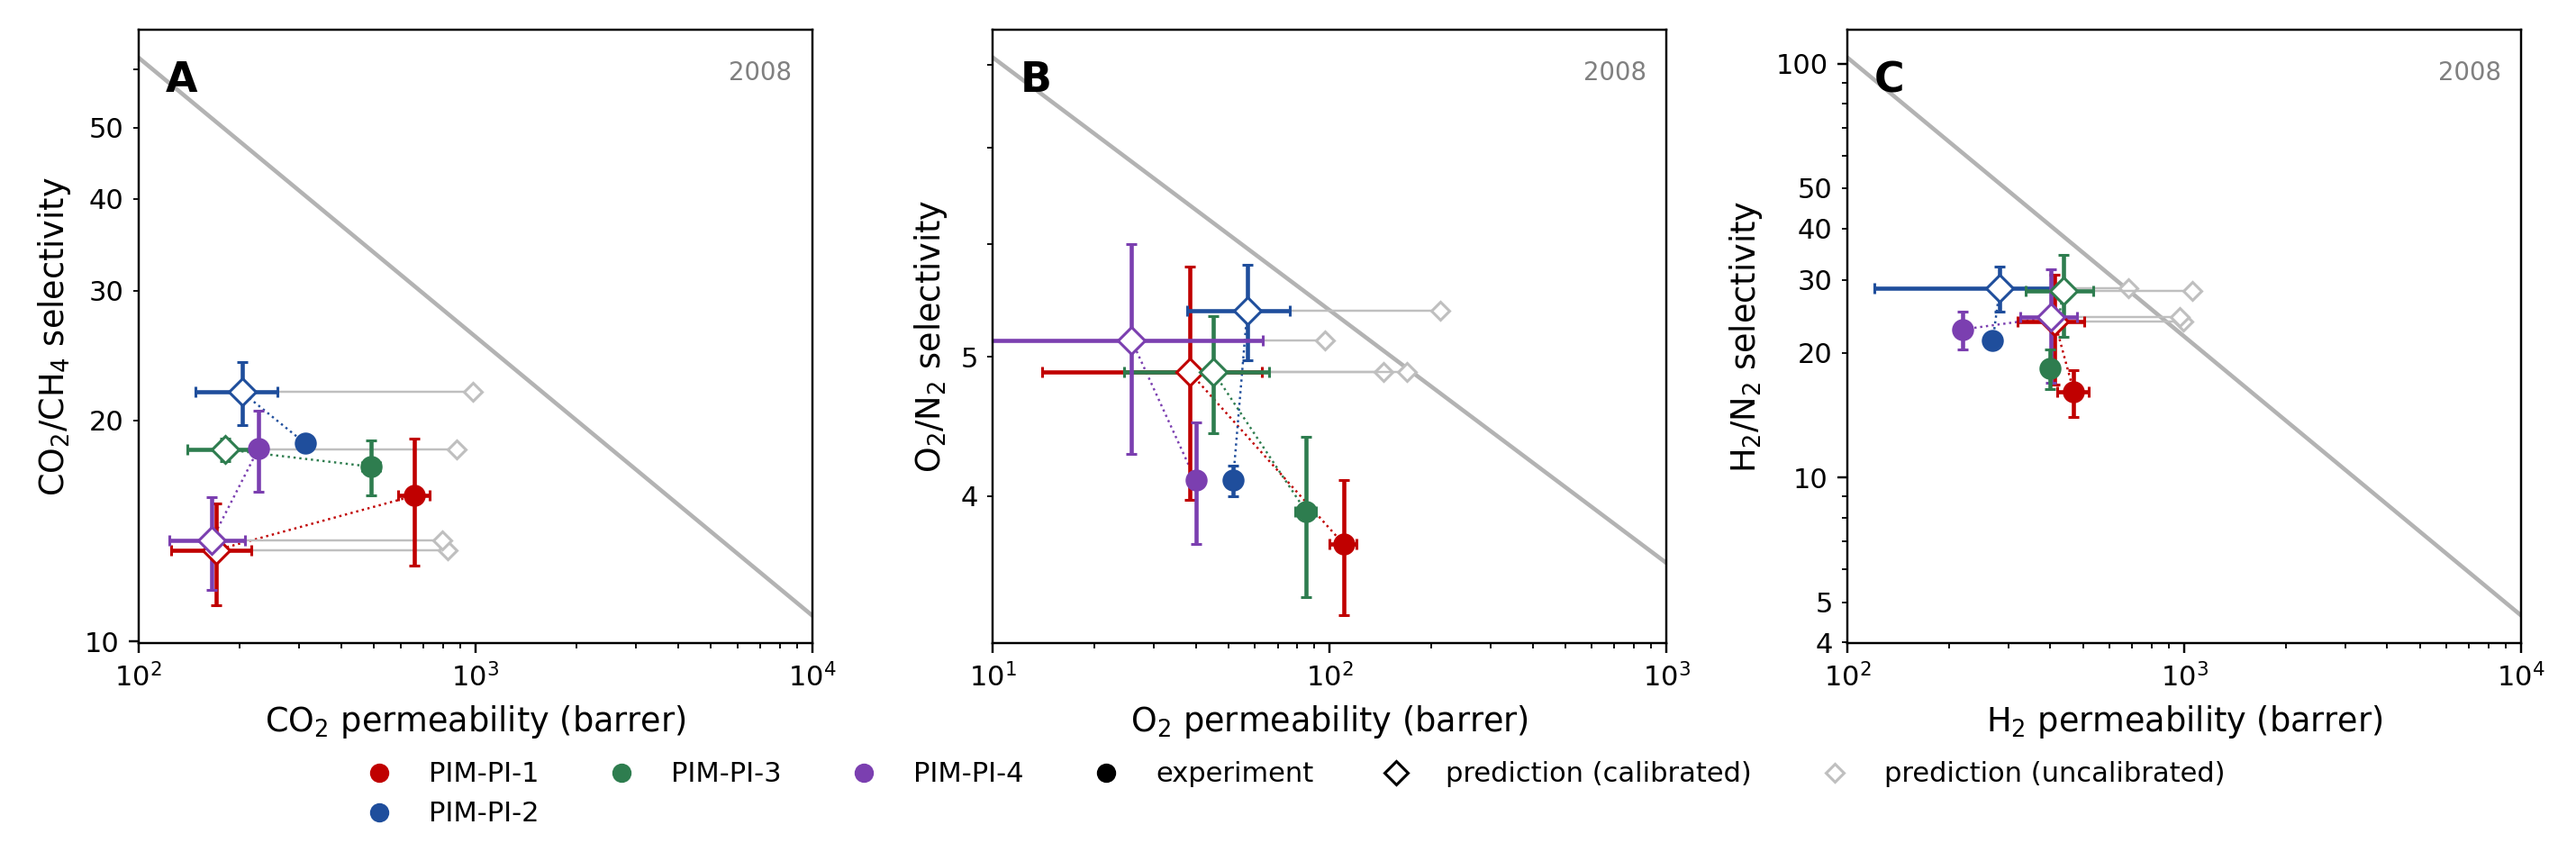
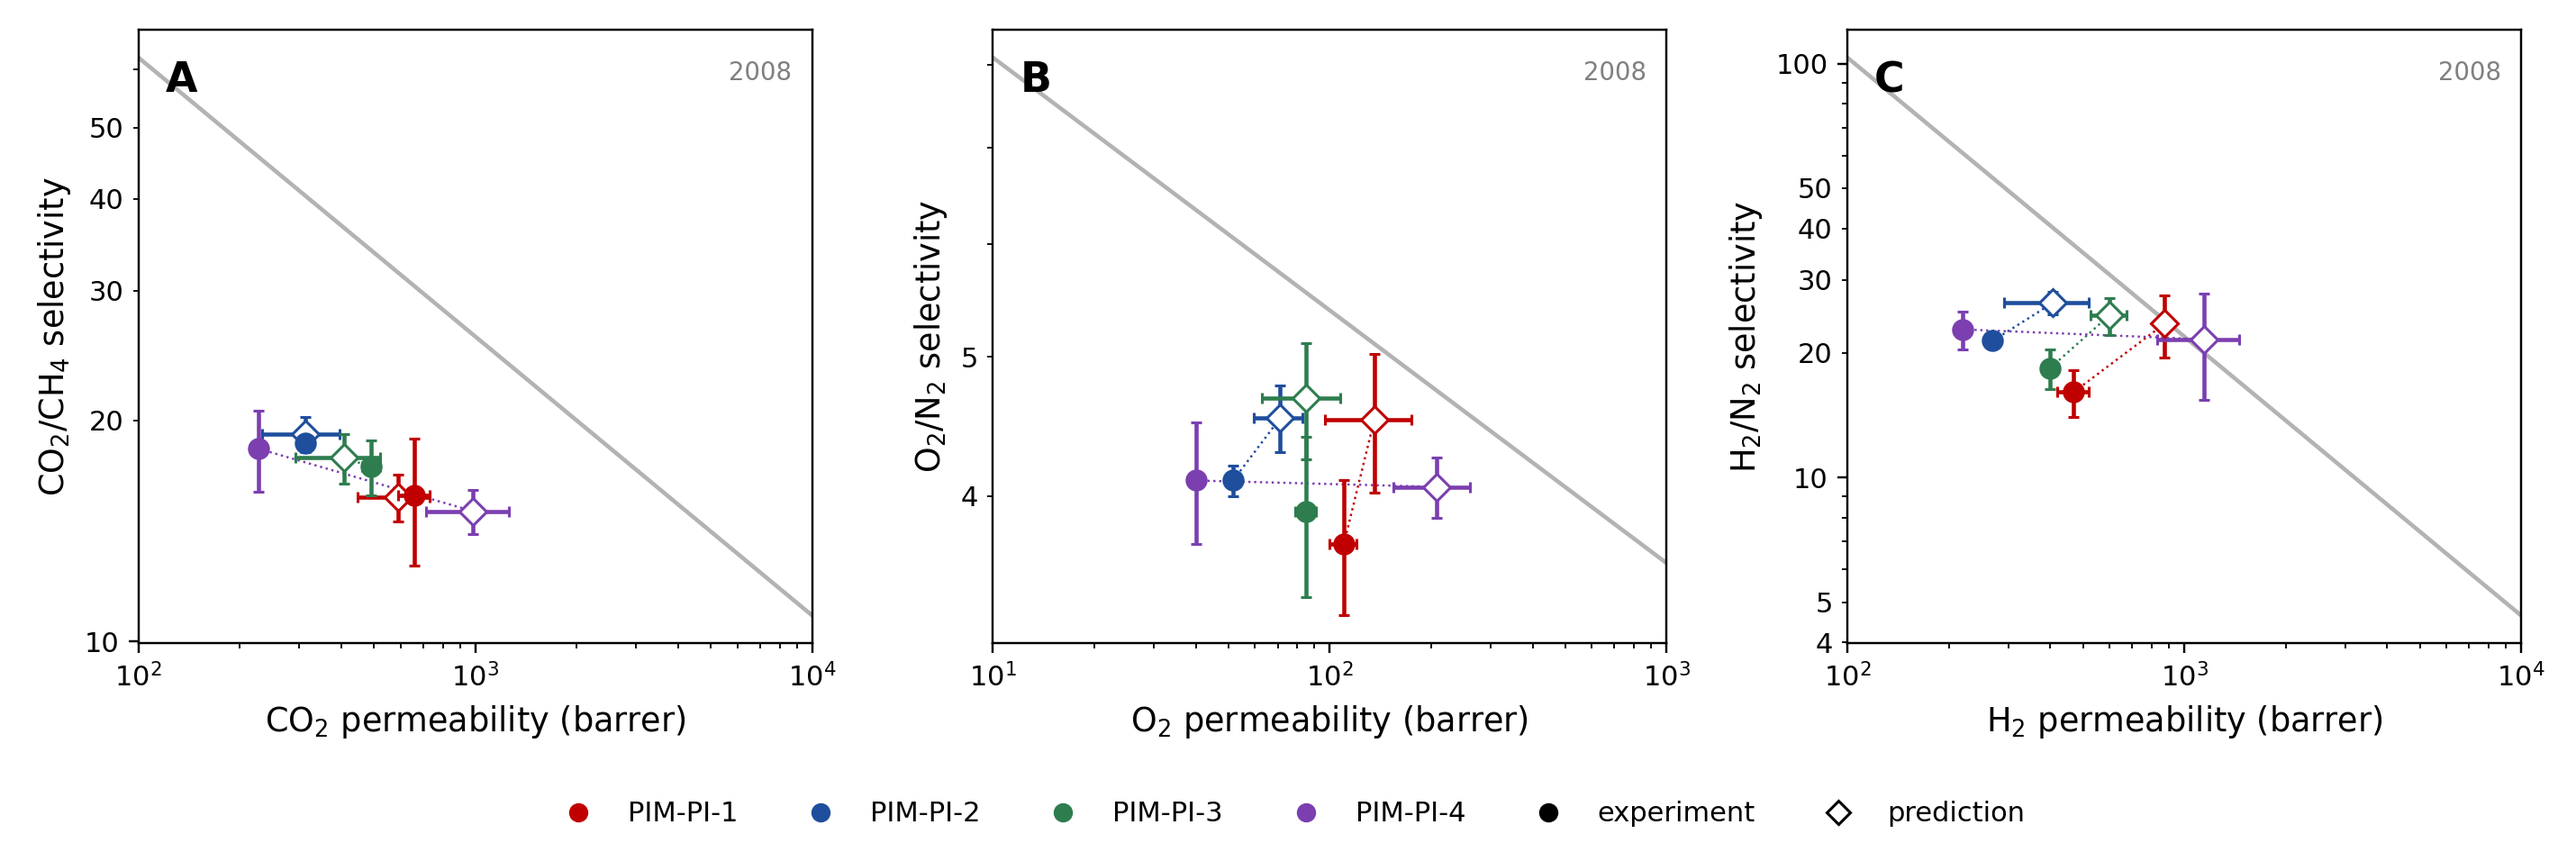
rebuild paper on conn predictions

diff --git a/results_v2/apply_main.py b/results_v2/apply_main.py
@@ -43,8 +43,9 @@ for tr, (mae, r2) in zip(rows[1:], N['table2']):
 log.append('Table 2: ' + json.dumps(N['table2']))
 set_col_widths(t2, [2196, 1330, 1330])                        # R2 column as wide as MAE so 'x ± y' fits
 edit('Table 2:', ' Prediction Metrics over Normalized Values, Averaged over 3 random seeds',
-     ' Test-set prediction metrics on normalized values (mean ± standard deviation over 3 train/test splits; '
-     'model epoch and configuration selected on a validation set)')
+     ' Test-set prediction metrics of the connection-aware predictor on normalized values (mean ± standard '
+     'deviation over 3 train/test splits; model epoch and configuration selected on a validation set). Table S12 '
+     'reports the same metrics for the published parameterization and for fifteen baselines')
 
 # ---- evaluation protocol paragraph
 P = 'Our predictive model was evaluated on held-out test sets'
@@ -190,12 +191,18 @@ edit(P, 'One notable outlier was that the model consistently overpredicted the H
      'permeabilities, and PIM-PI-4 was included in this study precisely as a control: it is the one repeat unit '
      'for which both a literature value and our own measurement exist, so the ratio between them gives a '
      f"per-gas correction ({_CAL['factor_text'].replace('x', 'X')}) that we apply to all four polymers. After this "
-     f"correction the predicted and measured permeabilities agree to within a factor of "
-     f"{_CAL['within_text_all']} across all four polymers and all three gases, and for H")
-edit(P, '2 permeability by a factor of approximately 2 – 3X, although the predicted selecivities for H',
-     f"2 the geometric mean of predicted to measured permeability is "
-     f"{_CAL['per_gas']['H2']['geomean_cal']:.2f}, with every polymer inside combined experimental error. The "
-     'predicted selectivities for H')
+     'correction the predicted and measured permeabilities of the three polymers that are new to this work agree '
+     f"to within a factor of {_CAL['within_text_novel']} across all three gases, with a geometric-mean ratio of "
+     f"{_CAL['cal']['geomean']:.2f} and {_CAL['cal']['within']} of the {_CAL['cal']['n']} values inside the "
+     'combined measurement and ensemble error, against none of them before the correction. For H')
+# the subscript 2 of "H2" is its own run, so this edit picks up after it
+edit(P, 'permeability by a factor of approximately 2 – 3X, although the predicted selecivities for H',
+     f"the ratio of predicted to measured permeability is {_CAL['per_gas']['H2']['geomean_cal']:.2f}, and for CO2 "
+     f"it is {_CAL['per_gas']['CO2']['geomean_cal']:.2f}. The previously reported polymer, which defines the correction "
+     'and whose own measured permeabilities are the lowest of the four, remains overpredicted by about a factor '
+     f"of {_CAL['within_text_all'].split('.')[0]}; its literature values and ours differ by more than for any "
+     'other polymer here, which is the same observation the correction is built on. The predicted selectivities '
+     'for H')
 edit(P, 'were still within error for all the polymers.',
      f"were within {N['h2n2_within_pct']}% of the measured values for all the polymers.")
 # The reviewers asked for the overprediction to be investigated rather than acknowledged, so the closing sentence is
@@ -354,8 +361,8 @@ for par in (p_mw, p_fw):                                   # the gas formulas ab
 
 # ---- Methods: property predictor (match what the selected models are)
 _PN = {'H2_N2': 'H\u2082/N\u2082', 'O2_N2': 'O\u2082/N\u2082', 'CO2_CH4': 'CO\u2082/CH\u2084'}
-_sel = [_PN[k] for k, v in sorted(N['selected_configs'].items()) if v['fw'] == 'True']
-_uns = [_PN[k] for k, v in sorted(N['selected_configs'].items()) if v['fw'] != 'True']
+_sel = [_PN[k] for k, v in sorted(N['published_selected_configs'].items()) if v['fw'] == 'True']
+_uns = [_PN[k] for k, v in sorted(N['published_selected_configs'].items()) if v['fw'] != 'True']
 _j = lambda xs: (' and '.join(xs) if len(xs) < 3 else ', '.join(xs[:-1]) + ' and ' + xs[-1])
 W_SEL = _j(_sel) + (' pairs' if len(_sel) > 1 else ' pair')
 W_UNSEL = _j(_uns) + (' pairs' if len(_uns) > 1 else ' pair')
@@ -384,8 +391,8 @@ edit(P, 'Additionally, the message passing was influenced in two ways by the ran
      'ᵥ to motif v’s feature vector therefore tells the predictor not only which motifs the walk contains '
      'but how probable the grammar considered each transition into them, which is the concrete sense in which '
      'generation and prediction share a representation. Whether to append it, and the weight initialization, were '
-     f"also selected on the validation set; it was selected for the {W_SEL} and not for the {W_UNSEL}. The final pooling "
-     'layer averages over the nodes of the walk.')
+     f"also selected on the validation set; in this parameterization it was selected for the {W_SEL} and not for "
+     f"the {W_UNSEL}. The final pooling layer averages over the nodes of the walk.")
 
 # ---- Methods: the connection-aware predictor. This is the model the revision prescribes, and the paragraph has to
 # do three things: say what is inherited from Sun et al. (53), say what is new here, and give the numbers that
@@ -408,7 +415,10 @@ if _C and 'conn' in _C:
         'term pooled over u\u2019s non-R-group atoms, and an R-group term pooled over exactly the atoms that this '
         'bond consumes. Because a bond consumes different atoms in each direction, and a different bond between the '
         'same pair of motifs consumes different atoms, the message is specific to the connection rather than to the '
-        'pair of motifs. Hidden states are updated residually and the readout is unchanged. ')
+        'pair of motifs. Hidden states are updated residually and the readout is unchanged. This model does not '
+        'append the transition probabilities to its node features; what it shares with the generator is the '
+        'attachment chosen for every bond, which is the same record the generator writes when it assembles a walk '
+        'into a structure. ')
     _txt += (f"Under the ten-split protocol this lowers test MAE from {_b0['mae']:.3f} to {_c['mae']:.3f} and "
              f"raises R\u00b2 from {_b0['r2']:.3f} to {_c['r2']:.3f}, a paired improvement of "
              f"{abs(_c['dmae']):.3f} MAE over {_c['n']} property-split cells (t = {abs(_c['t']):.2f}). ")

diff --git a/results_v2/apply_si.py b/results_v2/apply_si.py
@@ -39,6 +39,22 @@ _cp = lambda w, g: (pred[(w, g)][0] / _cal[g], pred[(w, g)][1] / _cal[g])
 s2 = [[p, fmt_perm2(*_cp(w, 'H2')), fmt_perm2(*_cp(w, 'O2')), fmt_perm2(*_cp(w, 'CO2'))] for p, w in walk_of.items()]
 s4 = [[p] + [f'{pred[(w, k)][0]:.1f} ± {pred[(w, k)][1]:.1f}' for k in ('CO2/CH4', 'O2/N2', 'H2/N2')] for p, w in walk_of.items()]
 fill_table_rows(tables_after(t, 'Table S2'), s2); fill_table_rows(tables_after(t, 'Table S4'), s4)
+# say in the caption that the predicted permeabilities carry the control correction, since the measured columns
+# of the same table do not
+_cap2 = find_par(t, 'Table S2')
+_f = ', '.join(f"{_cal[g]:.1f}X for {g[0]}~{g[1:]}~" for g in ('H2', 'O2', 'CO2'))
+_sub = None
+for _p in ('Table S4', 'Table S3', 'Table S5', 'Table S9'):
+    try:
+        _sub = sub_run(find_par(t, _p))
+        break
+    except Exception:
+        continue
+append_rich(_cap2, (' Predicted permeabilities are reported on the scale of our own films: each is divided by the '
+                    f'literature-to-laboratory factor for its gas ({_f}), measured on PIM-PI-4, the one repeat '
+                    'unit in this study for which both a literature value and our own measurement exist. The '
+                    'predicted selectivities of Table S4 are not corrected, being ratios taken on a single film.'),
+            _cap2.findall(W + 'r')[-1], _sub if _sub is not None else _cap2.findall(W + 'r')[-1])
 log += ['Table S2: ' + json.dumps(s2), 'Table S4: ' + json.dumps(s4)]
 
 # ---- Table S6: the 114 corrected dataset walks and their clean SMILES (was: atom-mapped SMARTS, missing rows)

diff --git a/results_v2/baselines/bl_summarize.py b/results_v2/baselines/bl_summarize.py
@@ -110,8 +110,8 @@ def si_tables(M, mean_mae, med_r2, min_r2):
     out = {}
     for key, suffix in (('tuned', ''), ('raw', ' [raw target]')):
         rows, notes = [], []
-        avail = [(lab, nm + suffix if nm != SI_LABEL['Ours (random-walk grammar)'] else nm)
-                 for lab, nm in SI_LABEL.items()]
+        # our own rows have no [raw target] variant: they are always trained on the untransformed targets
+        avail = [(lab, nm if nm.startswith('Ours') else nm + suffix) for lab, nm in SI_LABEL.items()]
         avail = [(lab, nm) for lab, nm in avail if nm in M and all(p in M[nm] for p in PROPS)]
         ours = [(lab, nm) for lab, nm in avail if nm.startswith('Ours')]
         rest = sorted([(lab, nm) for lab, nm in avail if not nm.startswith('Ours')], key=lambda x: mean_mae[x[1]])
